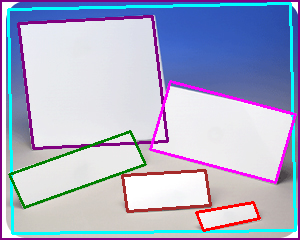
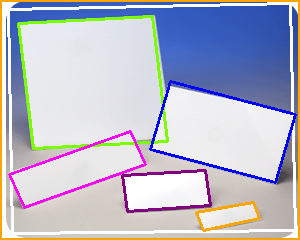
updated readme & pic

diff --git a/_masters_/ml/square-contours/contours.py b/_masters_/ml/square-contours/contours.py
@@ -143,6 +143,7 @@ class Figure:
 
 
 is_square = lambda points: len(points) == 4
+# многогранник
 is_polyhedron = lambda points: len(points) >= 4
 
 
@@ -171,8 +172,10 @@ def main():
 
         if f.is_polyhedron():
             if is_square(f.approx):
+                # четырехугольник
                 figures.append(f)
             else:
+                # многогранник => можно разбить
                 squares = f.split_into_squares()
                 figures.extend(squares)
 

diff --git a/_masters_/ml/README.md b/_masters_/ml/README.md
@@ -26,3 +26,24 @@ ImgEditor('source.png') \
 cd image-edit
 python editor.py
 ```
+
+
+## Square detector. lab 2
+
+Для выбранных изображений (см почту) реализовать распознавание границ геометрических фигур. 
+Распознанные границы нанести на рисунок (другим цветом).
+
+#### Usage
+
+- set up & activate venv
+```bash
+source venv/bin/activate
+
+pip install -r requirements.txt
+```
+
+- run lab
+```bash
+cd square-contours
+python contours.py
+```
